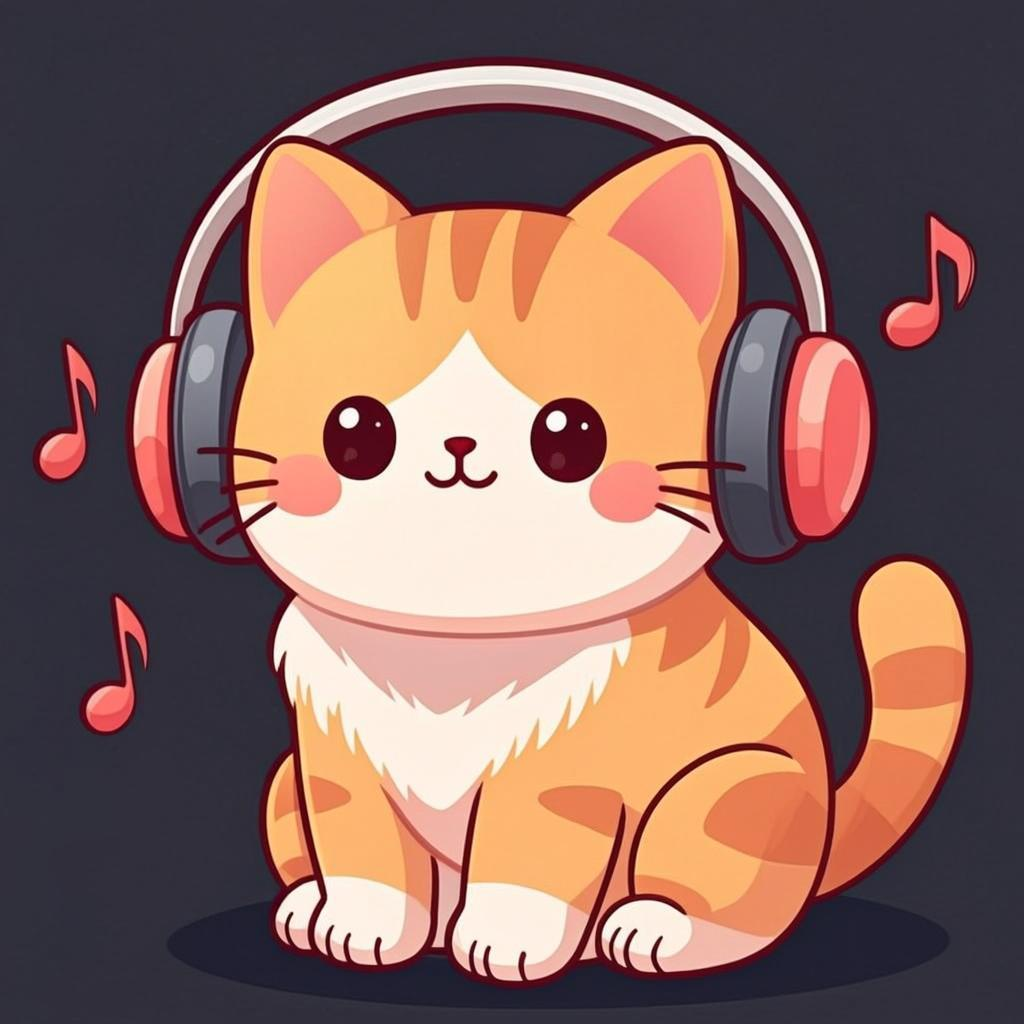
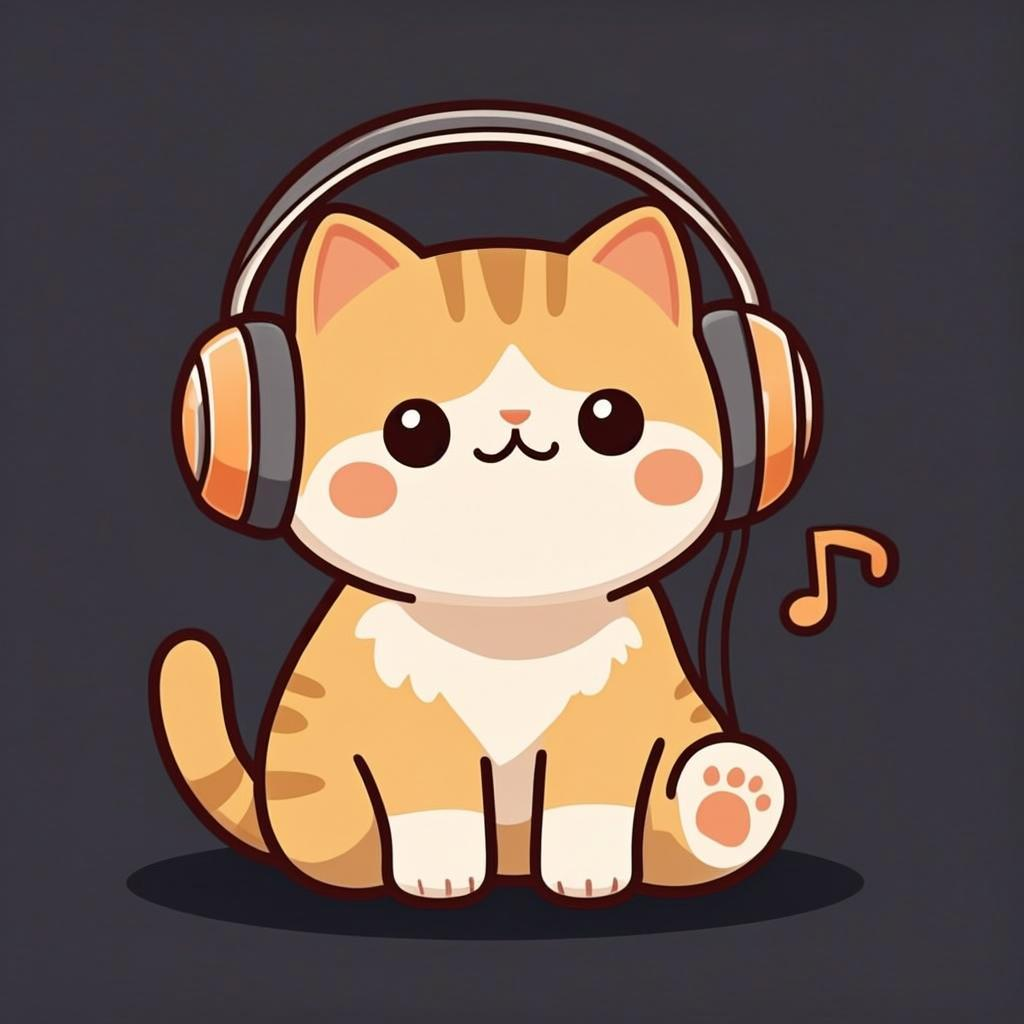
fix: persist cat settings + PNG image + size preview
- Added catEnabled/catFrequency/catMood/catSize/catPetCount to persist partialize
- Added cat settings validation in onRehydrateStorage
- Converted mascot image from JPEG to real PNG with transparency
- Added cat mascot preview when selecting size in settings

diff --git a/src/components/mq/SettingsView.tsx b/src/components/mq/SettingsView.tsx
@@ -644,9 +644,9 @@ export default function SettingsView() {
                     </p>
                     <div className="flex gap-2">
                       {([
-                        { id: "small" as const, label: "Маленький" },
-                        { id: "medium" as const, label: "Средний" },
-                        { id: "large" as const, label: "Большой" },
+                        { id: "small" as const, label: "Маленький", px: 48 },
+                        { id: "medium" as const, label: "Средний", px: 64 },
+                        { id: "large" as const, label: "Большой", px: 80 },
                       ]).map((opt) => (
                         <button
                           key={opt.id}
@@ -657,6 +657,23 @@ export default function SettingsView() {
                             border: catSize === opt.id ? "1px solid var(--mq-accent)" : "1px solid var(--mq-border)",
                           }}
                         >
+                          <div className="flex justify-center mb-1.5">
+                            <motion.img
+                              src="/mq-cat.png"
+                              alt=""
+                              className="object-contain"
+                              style={{ width: opt.px, height: opt.px }}
+                              animate={catSize === opt.id
+                                ? { scale: [1, 1.12, 1], rotate: [0, -4, 4, -2, 0] }
+                                : { scale: 0.85 }
+                              }
+                              transition={catSize === opt.id
+                                ? { duration: 0.5, ease: "easeInOut" }
+                                : { duration: 0.2 }
+                              }
+                              draggable={false}
+                            />
+                          </div>
                           <p className="text-xs font-medium" style={{ color: catSize === opt.id ? "var(--mq-accent)" : "var(--mq-text)" }}>
                             {opt.label}
                           </p>

diff --git a/src/store/useAppStore.ts b/src/store/useAppStore.ts
@@ -1801,6 +1801,13 @@ export const useAppStore = create<AppState>()(
         currentStyle: state.currentStyle,
         shuffle: state.shuffle,
         repeat: state.repeat,
+        // Cat mascot settings
+        catEnabled: state.catEnabled,
+        catFrequency: state.catFrequency,
+        catMood: state.catMood,
+        catSize: state.catSize,
+        catLastSeen: state.catLastSeen,
+        catPetCount: state.catPetCount,
         // typingUsers is intentionally excluded — it's ephemeral real-time state
       }),
       migrate: (persisted: unknown, version: number) => {
@@ -1858,6 +1865,12 @@ export const useAppStore = create<AppState>()(
           if (typeof s.fontSize !== "number") fixes.fontSize = 16;
           if (typeof s.shuffle !== "boolean") fixes.shuffle = false;
           if (typeof s.repeat !== "string") fixes.repeat = "off";
+          // Cat mascot validation
+          if (typeof s.catEnabled !== "boolean") fixes.catEnabled = true;
+          if (!["rare", "normal", "often"].includes(s.catFrequency as string)) fixes.catFrequency = "normal";
+          if (!["friendly", "sassy", "sleepy", "excited"].includes(s.catMood as string)) fixes.catMood = "friendly";
+          if (!["small", "medium", "large"].includes(s.catSize as string)) fixes.catSize = "medium";
+          if (typeof s.catPetCount !== "number") fixes.catPetCount = 0;
           if (typeof s.queueIndex !== "number") fixes.queueIndex = 0;
           const fb = s.feedbackBatch as Record<string, unknown> | undefined;
           if (!fb || typeof fb.pendingCount !== "number") {
